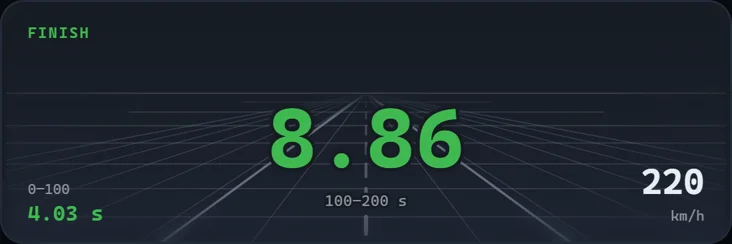
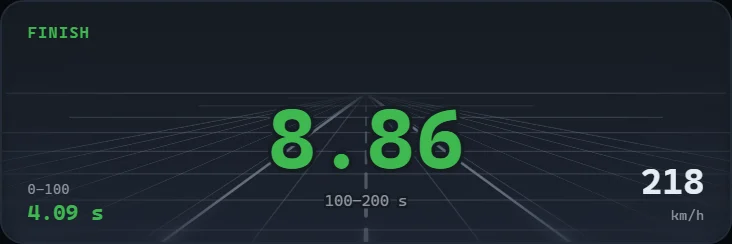
Showcases for the cell chart and the acceleration timer; timer works with every adapter
- New "Battery cells" section: the live cell-voltage chart (healthy pack) full width, three notes
  (min / max, balance check at rest, chemistry), and a dead-cell chart; wide charts scroll sideways on
  phones, the dead-cell one opens centred on the red column.
- Acceleration timer section rewritten as a showcase: full screen sideways and upright, "works with every
  adapter" (Acceleration mode on basic ELM327), full screen in one tap, run history.
  The old "when does the timer appear" rules and the 0–100 rows in the adapter cards are gone.
- Nav gets Cells and 0–100 (links collapse below 960 px); gallery gets the full-screen timer.
- New captures from the app demo (EN / UK); unused STN-highlight and running crops removed.

diff --git a/index.html b/index.html
@@ -102,7 +102,7 @@
     padding: 5px 11px; border: 0; border-radius: 999px; background: transparent; color: var(--muted); cursor: pointer;
   }
   .lang button[aria-pressed='true'] { background: var(--text); color: var(--bg); }
-  @media (max-width: 760px) { .links { display: none; } .lang { margin-left: auto; } }
+  @media (max-width: 960px) { .links { display: none; } .lang { margin-left: auto; } }
 
   /* ---------- Герой ---------- */
   .hero { padding: 72px 0 40px; }
@@ -286,31 +286,53 @@
   @media (max-width: 760px) { .more { grid-template-columns: 1fr; } }
   .legend { display: flex; flex-wrap: wrap; gap: 6px 18px; font-size: 13px; color: var(--dim); margin: -14px 0 22px; }
 
-  /* Таймер розгону */
-  .accel { display: grid; grid-template-columns: 1.1fr 1fr; gap: 16px; }
-  .accel .card { padding: 26px; }
-  .accel h3 { margin: 0 0 10px; font-size: 19px; }
-  .accel p { margin: 0 0 12px; color: var(--muted); }
-  .accel ul { margin: 0; padding: 0; list-style: none; display: grid; gap: 10px; }
-  .accel li { display: flex; gap: 10px; color: var(--muted); }
-  .accel li b { color: var(--text); }
-  .accel .yes::before, .accel .nope::before { flex: none; font-weight: 800; }
-  .accel .yes::before { content: '✓'; color: var(--green); }
-  .accel .nope::before { content: '✕'; color: var(--red); }
-  .accel .sub-h { margin-top: 22px; }
-  /* Знімки віджета (у демо з реального компонента апки) */
-  .shot { margin: 0 0 16px; }
-  .shot:last-child { margin-bottom: 0; }
-  .shot img { display: block; width: 100%; height: auto; border-radius: 14px; border: 1px solid var(--line); }
-  /* Де живе віджет: телефон з підсвіченими віджетом і чипом STN + крупні кадри станів */
-  .accel-media { display: grid; grid-template-columns: 210px 1fr; gap: 20px; align-items: start; }
-  .where { margin: 0; }
-  .where .phone { position: static; transform: none; width: 100%; opacity: 1; box-shadow: 0 18px 40px rgba(0, 0, 0, 0.45); }
-  .where figcaption { margin-top: 10px; font-size: 13.5px; color: var(--muted); }
-  @media (max-width: 1040px) and (min-width: 861px) { .accel-media { grid-template-columns: 1fr; } .where { max-width: 230px; } }
-  @media (max-width: 520px) { .accel-media { grid-template-columns: 1fr; } .where { max-width: 240px; margin: 0 auto; } }
-  .shot figcaption { margin-top: 8px; font-size: 13.5px; color: var(--muted); }
-  @media (max-width: 860px) { .accel { grid-template-columns: 1fr; } }
+  /* Вітрини (комірки, розгін): великі кадри з реального компонента апки + картки-пояснення */
+  .points { display: grid; gap: 14px; }
+  .point { padding: 22px; }
+  .point h3 { margin: 0 0 6px; font-size: 17px; letter-spacing: -0.01em; }
+  .point p { margin: 0; color: var(--muted); font-size: 14.5px; }
+  .point img { display: block; width: 100%; height: auto; margin-top: 16px; border-radius: 12px; border: 1px solid var(--line); }
+  figure.showcase { margin: 0; }
+  .showcase figcaption { margin-top: 12px; font-size: 14px; color: var(--muted); }
+  .showcase figcaption b { color: var(--text); }
+
+  /* Комірки: графік широкий (≈4.4 : 1) — на телефоні гортається вбік, щоб цифри лишались читабельними */
+  .chart-shot { position: relative; }
+  .chart-shot::before {
+    content: ''; position: absolute; inset: 10% 15% -6%; z-index: -1;
+    background: radial-gradient(closest-side, rgba(88, 166, 255, 0.22), transparent); filter: blur(30px);
+  }
+  .chart-scroll { overflow-x: auto; border-radius: 14px; box-shadow: var(--shadow); scrollbar-width: thin; }
+  .chart-scroll img { display: block; width: 100%; height: auto; }
+  .swipe-hint { display: none; }
+  @media (max-width: 760px) {
+    .chart-scroll img { width: 760px; max-width: none; }
+    .swipe-hint { display: inline; }
+  }
+  .cells-points { grid-template-columns: repeat(3, 1fr); margin-top: 26px; }
+  @media (max-width: 860px) { .cells-points { grid-template-columns: 1fr; } }
+  .dead-shot { margin-top: 16px; padding: 18px; }
+  .dead-shot .chart-scroll { box-shadow: none; border: 1px solid var(--line); border-radius: 12px; }
+
+  /* Розгін: телефон боком (повний екран) + телефон стоячи */
+  .accel-show { position: relative; display: grid; grid-template-columns: 1fr 236px; gap: 32px; align-items: center; }
+  .accel-show::before {
+    content: ''; position: absolute; inset: 0 25% 10% 10%; z-index: -1;
+    background: radial-gradient(closest-side, rgba(229, 120, 32, 0.22), transparent); filter: blur(40px);
+  }
+  .phone-wide {
+    padding: 7px; border-radius: 30px; background: linear-gradient(160deg, #2a313c, #0c1016 40%);
+    border: 1px solid var(--line-strong); box-shadow: var(--shadow);
+  }
+  .phone-wide img { display: block; width: 100%; height: auto; border-radius: 24px; }
+  .upright .phone { position: static; transform: none; width: 100%; opacity: 1; box-shadow: var(--shadow); }
+  .accel-points { grid-template-columns: repeat(3, 1fr); margin-top: 28px; align-items: start; }
+  @media (max-width: 980px) { .accel-points { grid-template-columns: 1fr 1fr; } }
+  @media (max-width: 760px) {
+    .accel-show { grid-template-columns: 1fr; gap: 26px; }
+    figure.upright { max-width: 220px; margin: 0 auto; text-align: center; } /* figure.showcase { margin: 0 } інакше перебиває */
+    .accel-points { grid-template-columns: 1fr; }
+  }
 
   /* Кабелі */
   .cables { grid-template-columns: repeat(3, 1fr); }
@@ -398,6 +420,8 @@
     </a>
     <nav class="links">
       <a href="#features"><span class="en">Features</span><span class="uk">Можливості</span></a>
+      <a href="#cells"><span class="en">Cells</span><span class="uk">Комірки</span></a>
+      <a href="#accel">0–100</a>
       <a href="#video"><span class="en">Video</span><span class="uk">Відео</span></a>
       <a href="#editions"><span class="en">Editions</span><span class="uk">Версії</span></a>
       <a href="#adapters"><span class="en">Adapters</span><span class="uk">Адаптери</span></a>
@@ -531,11 +555,104 @@
           <figure><div class="phone"><img src="assets/img/shots/cells.webp" alt="" width="540" height="960" loading="lazy" draggable="false"></div><figcaption><span class="en">Cells</span><span class="uk">Комірки</span></figcaption></figure>
           <figure><div class="phone"><img src="assets/img/shots/pack.webp" alt="" width="540" height="960" loading="lazy" draggable="false"></div><figcaption><span class="en">Pack</span><span class="uk">Пак</span></figcaption></figure>
           <figure><div class="phone"><img src="assets/img/shots/drive-accel.webp" alt="" width="540" height="960" loading="lazy" draggable="false"></div><figcaption><span class="en">Drive</span><span class="uk">Привід</span></figcaption></figure>
+          <figure><div class="phone"><img class="en" src="assets/img/accel/en-full-portrait.webp" alt="" width="540" height="960" loading="lazy" draggable="false"><img class="uk" src="assets/img/accel/uk-full-portrait.webp" alt="" width="540" height="960" loading="lazy" draggable="false"></div><figcaption><span class="en">0–100 full screen</span><span class="uk">Розгін на весь екран</span></figcaption></figure>
           <figure><div class="phone"><img src="assets/img/shots/hv.webp" alt="" width="540" height="960" loading="lazy" draggable="false"></div><figcaption>HV</figcaption></figure>
           <figure><div class="phone"><img src="assets/img/shots/overview.webp" alt="" width="540" height="960" loading="lazy" draggable="false"></div><figcaption><span class="en">Decoded values</span><span class="uk">Декодовані значення</span></figcaption></figure>
         </div>
         <button type="button" class="gal-btn prev" aria-label="Previous screenshots"><svg viewBox="0 0 24 24" fill="none" stroke="currentColor" stroke-width="2.4" stroke-linecap="round" stroke-linejoin="round" aria-hidden="true"><path d="M14.5 6 8.5 12l6 6"/></svg></button>
         <button type="button" class="gal-btn next" aria-label="Next screenshots"><svg viewBox="0 0 24 24" fill="none" stroke="currentColor" stroke-width="2.4" stroke-linecap="round" stroke-linejoin="round" aria-hidden="true"><path d="m9.5 6 6 6-6 6"/></svg></button>
+      </div>
+    </div>
+  </section>
+
+  <!-- ======== Комірки (вітрина) ======== -->
+  <section class="block" id="cells">
+    <div class="wrap">
+      <div class="kicker"><span class="en">Battery cells</span><span class="uk">Комірки батареї</span></div>
+      <h2><span class="en">Every cell of your pack on one chart</span><span class="uk">Кожна комірка батареї — на одному графіку</span></h2>
+      <p class="lead">
+        <span class="en">The battery management system reports the voltage of every cell group, and T-CAN draws all of them live: 96 bars on a typical Model 3 / Y pack. The scale follows the actual spread, so even a few millivolts of difference are visible.</span>
+        <span class="uk">Система керування батареєю передає напругу кожної групи комірок, і T-CAN малює їх усі наживо: 96 стовпців на типовій батареї Model 3 / Y. Шкала підлаштовується під реальний розкид, тож видно навіть кілька мілівольт різниці.</span>
+      </p>
+      <figure class="showcase chart-shot reveal">
+        <div class="chart-scroll">
+          <img class="en" src="assets/img/cells/en-chart.webp" alt="Cell voltage chart: 96 cells, average 4.066 V, two weaker cells stand out" width="1872" height="428" loading="lazy">
+          <img class="uk" src="assets/img/cells/uk-chart.webp" alt="Графік напруги комірок: 96 комірок, середня 4.066 В, дві слабші комірки видно одразу" width="1872" height="428" loading="lazy">
+        </div>
+        <figcaption>
+          <span class="en">The weaker a cell, the brighter its bar; the dashed line is the pack average. <span class="swipe-hint">Swipe to see all cells.</span></span>
+          <span class="uk">Що слабша комірка, то яскравіший її стовпець; пунктир — середня по батареї. <span class="swipe-hint">Гортайте вбік, щоб побачити всі комірки.</span></span>
+        </figcaption>
+      </figure>
+      <div class="points cells-points">
+        <article class="card point reveal">
+          <h3><span class="en">Min, max and imbalance</span><span class="uk">Мін, макс і розбаланс</span></h3>
+          <p><span class="en">The lowest and highest cells are named and outlined in the cell grid under the chart.</span><span class="uk">Найнижчу й найвищу комірки названо за номером і обведено в сітці під графіком.</span></p>
+        </article>
+        <article class="card point reveal">
+          <h3><span class="en">Balance check at rest</span><span class="uk">Перевірка балансу в спокої</span></h3>
+          <p><span class="en">The spread turns green, amber or red only when the car is at rest: under load it grows naturally and would raise false alarms.</span><span class="uk">Розкид фарбується в зелений, жовтий чи червоний лише в спокої: під навантаженням він природно зростає й давав би хибні тривоги.</span></p>
+        </article>
+        <article class="card point reveal">
+          <h3><span class="en">Chemistry recognised</span><span class="uk">Хімія розпізнається</span></h3>
+          <p><span class="en">LFP or NCA / NCM is detected from the bus, and the imbalance threshold follows it.</span><span class="uk">LFP чи NCA / NCM визначається з шини, і поріг розбалансу підлаштовується під неї.</span></p>
+        </article>
+      </div>
+      <figure class="card showcase dead-shot reveal">
+        <div class="chart-scroll" data-focus="0.46">
+          <img class="en" src="assets/img/cells/en-chart-dead.webp" alt="Cell voltage chart of an unbalanced pack with one dead cell drawn in red" width="1872" height="428" loading="lazy">
+          <img class="uk" src="assets/img/cells/uk-chart-dead.webp" alt="Графік розбалансованої батареї з мертвою коміркою, позначеною червоним" width="1872" height="428" loading="lazy">
+        </div>
+        <figcaption>
+          <span class="en"><b>A dead cell is impossible to miss.</b> A cell at 0 V, whether the cell group failed or its sense wire broke, is drawn as a red full-height column and counted in the summary.</span>
+          <span class="uk"><b>Мертву комірку неможливо проґавити.</b> Комірка на 0 В, чи то відмовила група, чи обірвався вимірювальний провід, малюється червоним стовпцем на всю висоту й рахується в підсумку.</span>
+        </figcaption>
+      </figure>
+    </div>
+  </section>
+
+  <!-- ======== Таймер розгону (вітрина) ======== -->
+  <section class="block" id="accel">
+    <div class="wrap">
+      <div class="kicker"><span class="en">Acceleration timer</span><span class="uk">Таймер розгону</span></div>
+      <h2><span class="en">0–100 and 100–200, timed from the CAN bus</span><span class="uk">0–100 і 100–200 — заміряно з CAN-шини</span></h2>
+      <p class="lead">
+        <span class="en">Stop, wait for READY and go. The timer starts the moment the car moves, catches each split between speed readings and keeps every run on your phone. In miles it times 0–60 and 60–120 mph.</span>
+        <span class="uk">Зупиніться, дочекайтесь READY і рушайте. Замір починається, щойно авто рушило, кожен відрізок ловиться між показами швидкості, а всі заїзди зберігаються на телефоні. У милях — 0–60 і 60–120 mph.</span>
+      </p>
+      <div class="accel-show">
+        <figure class="showcase reveal">
+          <div class="phone-wide">
+            <img class="en" src="assets/img/accel/en-full-landscape.webp" alt="Acceleration timer in full screen, phone turned sideways, during a run" width="1200" height="540" loading="lazy">
+            <img class="uk" src="assets/img/accel/uk-full-landscape.webp" alt="Таймер розгону на весь екран, телефон боком, під час заміру" width="1200" height="540" loading="lazy">
+          </div>
+          <figcaption><span class="en">Full screen, phone sideways: digits you can read from the mount.</span><span class="uk">На весь екран, телефон боком: цифри видно з тримача.</span></figcaption>
+        </figure>
+        <figure class="showcase upright reveal">
+          <div class="phone">
+            <img class="en" src="assets/img/accel/en-full-portrait.webp" alt="Acceleration timer in full screen, phone upright" width="540" height="960" loading="lazy">
+            <img class="uk" src="assets/img/accel/uk-full-portrait.webp" alt="Таймер розгону на весь екран, телефон стоячи" width="540" height="960" loading="lazy">
+          </div>
+          <figcaption><span class="en">Upright: the road runs down the screen.</span><span class="uk">Стоячи: дорога біжить уздовж екрана.</span></figcaption>
+        </figure>
+      </div>
+      <div class="points accel-points">
+        <article class="card point reveal">
+          <h3><span class="en">Works with every adapter</span><span class="uk">Працює з будь-яким адаптером</span></h3>
+          <p><span class="en">With STN adapters (OBDLink, vLinker), CANserver and S3XY Commander the timer sits above all Drive tiles. On a basic ELM327 pick Acceleration at the top of the Drive dashboard: the app then listens to speed alone, so it arrives without gaps.</span><span class="uk">З адаптерами на STN (OBDLink, vLinker), CANserver і S3XY Commander таймер стоїть над усіма плитками «Приводу». На звичайному ELM327 оберіть «Розгін» угорі дашборда «Привід»: апка тоді слухає лише швидкість, і вона надходить без пропусків.</span></p>
+          <img class="en" src="assets/img/accel/en-elm.webp" alt="Drive dashboard on a basic ELM327: Acceleration selected, timer running" width="736" height="396" loading="lazy">
+          <img class="uk" src="assets/img/accel/uk-elm.webp" alt="Дашборд «Привід» на звичайному ELM327: обрано «Розгін», іде замір" width="736" height="396" loading="lazy">
+        </article>
+        <article class="card point reveal">
+          <h3><span class="en">Full screen in one tap</span><span class="uk">На весь екран одним дотиком</span></h3>
+          <p><span class="en">The corner button opens the timer full screen; turn the phone and the layout follows. The same button or Back returns to the dashboard.</span><span class="uk">Кнопка в куті відкриває таймер на весь екран; поверніть телефон — розкладка підлаштується. Та сама кнопка чи «Назад» повертає до дашборда.</span></p>
+        </article>
+        <article class="card point reveal">
+          <h3><span class="en">Every run is kept</span><span class="uk">Кожен заїзд зберігається</span></h3>
+          <p><span class="en">Tap the timer for the list of runs: date, splits and top speed. Stored only on your phone.</span><span class="uk">Тап по таймеру — список заїздів: дата, відрізки й максимальна швидкість. Зберігається лише на телефоні.</span></p>
+          <img class="en" src="assets/img/accel/en-done.webp" alt="Finish: 0–100 in 4.09 s, 100–200 in 8.86 s" width="732" height="244" loading="lazy">
+          <img class="uk" src="assets/img/accel/uk-done.webp" alt="Фініш: 0–100 за 4.06 с, 100–200 за 8.86 с" width="732" height="244" loading="lazy">
+        </article>
       </div>
     </div>
   </section>
@@ -590,7 +707,7 @@
           <ul>
             <li><span class="en">All dashboards: cells, pack, drive, charging, HV</span><span class="uk">Усі дашборди: комірки, пак, привід, зарядка, HV</span></li>
             <li><span class="en">2,700+ decoded signals, favourites and filters</span><span class="uk">2 700+ декодованих сигналів, обране й фільтри</span></li>
-            <li><span class="en">Acceleration timer with run history</span><span class="uk">Таймер розгону з історією заїздів</span></li>
+            <li><span class="en">Acceleration timer: full screen, run history, any adapter</span><span class="uk">Таймер розгону: на весь екран, історія заїздів, будь-який адаптер</span></li>
             <li><span class="en">CAN logger, raw frames, PNG / PDF snapshots</span><span class="uk">CAN-логер, сирі кадри, знімки PNG / PDF</span></li>
           </ul>
           <div class="badges">
@@ -633,7 +750,6 @@
             <dl class="status">
               <div><dt>Android</dt><dd class="ok">✓ <span class="en">tested</span><span class="uk">перевірено</span></dd></div>
               <div><dt>iPhone</dt><dd class="no">✕ <span class="en">no classic Bluetooth on iPhone</span><span class="uk">на iPhone немає класичного Bluetooth</span></dd></div>
-              <div><dt><span class="en">0–100</span><span class="uk">0–100</span></dt><dd class="no">✕</dd></div>
             </dl>
             <p class="note"><span class="en">The cheapest option: fine for a connection check and basic readings, values update slower.</span><span class="uk">Найдешевший варіант: для перевірки звʼязку й базових показників, значення оновлюються повільніше.</span></p>
           </div>
@@ -646,7 +762,6 @@
             <dl class="status">
               <div><dt>Android</dt><dd class="ok">✓ <span class="en">tested</span><span class="uk">перевірено</span></dd></div>
               <div><dt>iPhone</dt><dd class="ok">✓ <span class="en">tested</span><span class="uk">перевірено</span></dd></div>
-              <div><dt>0–100</dt><dd class="no">✕</dd></div>
             </dl>
             <p class="note"><span class="en">Sold as "for Android and iOS".</span><span class="uk">Продається як «для Android та iOS».</span></p>
           </div>
@@ -659,7 +774,6 @@
             <dl class="status">
               <div><dt>Android</dt><dd class="ok">✓ <span class="en">tested</span><span class="uk">перевірено</span></dd></div>
               <div><dt>iPhone</dt><dd class="ok">✓ <span class="en">tested</span><span class="uk">перевірено</span></dd></div>
-              <div><dt>0–100</dt><dd class="no">✕</dd></div>
             </dl>
             <p class="note"><span class="en">Join the adapter's Wi-Fi first; meanwhile the phone's internet goes over mobile data.</span><span class="uk">Спершу підключіться до Wi-Fi адаптера; інтернет тим часом іде через мобільні дані.</span></p>
           </div>
@@ -672,65 +786,17 @@
             <dl class="status">
               <div><dt>Android</dt><dd class="ok">✓ <span class="en">tested</span><span class="uk">перевірено</span></dd></div>
               <div><dt>iPhone</dt><dd class="ok">✓ <span class="en">tested</span><span class="uk">перевірено</span></dd></div>
-              <div><dt>0–100</dt><dd class="ok">✓ Android</dd></div>
             </dl>
             <p class="note"><span class="en">Filters CAN messages in hardware, so values update noticeably more often.</span><span class="uk">Фільтрує CAN-повідомлення апаратно, тож значення оновлюються помітно частіше.</span></p>
           </div>
         </article>
       </div>
       <ul class="more">
-        <li class="card reveal"><b>OBDLink CX</b> — Bluetooth LE · STN · Android, iPhone · 0–100 <span class="ok">✓</span><br><span class="en">Supported, not tested by us yet.</span><span class="uk">Підтримується, ми ще не перевіряли.</span></li>
-        <li class="card reveal"><b>OBDLink MX+</b> — Bluetooth · STN · 0–100 <span class="ok">✓</span><br><span class="en">Android; on iPhone via MFi, awaiting approval.</span><span class="uk">Android; на iPhone через MFi — чекаємо дозволу.</span></li>
-        <li class="card reveal"><b>Vgate vLinker FS</b> — Bluetooth · MFi · 0–100 <span class="ok">✓</span><br><span class="en">Android; on iPhone via MFi, coming soon.</span><span class="uk">Android; на iPhone через MFi — незабаром.</span></li>
-        <li class="card reveal"><b>CANserver · S3XY Commander</b> — Wi-Fi · Android, iPhone · 0–100 <span class="ok">✓</span><br><span class="en">Supported, not tested by us yet.</span><span class="uk">Підтримуються, ми ще не перевіряли.</span></li>
+        <li class="card reveal"><b>OBDLink CX</b> — Bluetooth LE · STN · Android, iPhone<br><span class="en">Supported, not tested by us yet.</span><span class="uk">Підтримується, ми ще не перевіряли.</span></li>
+        <li class="card reveal"><b>OBDLink MX+</b> — Bluetooth · STN<br><span class="en">Android; on iPhone via MFi, awaiting approval.</span><span class="uk">Android; на iPhone через MFi — чекаємо дозволу.</span></li>
+        <li class="card reveal"><b>Vgate vLinker FS</b> — Bluetooth · MFi<br><span class="en">Android; on iPhone via MFi, coming soon.</span><span class="uk">Android; на iPhone через MFi — незабаром.</span></li>
+        <li class="card reveal"><b>CANserver · S3XY Commander</b> — Wi-Fi · Android, iPhone<br><span class="en">Supported, not tested by us yet.</span><span class="uk">Підтримуються, ми ще не перевіряли.</span></li>
       </ul>
-    </div>
-  </section>
-
-  <!-- ======== Таймер розгону ======== -->
-  <section class="block" id="accel">
-    <div class="wrap">
-      <div class="kicker"><span class="en">Acceleration timer</span><span class="uk">Таймер розгону</span></div>
-      <h2><span class="en">When does the 0–100 timer appear?</span><span class="uk">Коли зʼявляється таймер 0–100?</span></h2>
-      <p class="lead"><span class="en">A widget on the Drive dashboard: it waits at a standstill (READY), starts timing as soon as the car moves and records 0–100 and 100–200 km/h (0–60 and 60–120 mph). Tap it for the history of your runs.</span><span class="uk">Віджет на дашборді «Привід»: чекає на стоянці (READY), починає замір, щойно авто рушило, і фіксує 0–100 та 100–200 км/год (0–60 і 60–120 mph). Тап по ньому — історія ваших заїздів.</span></p>
-      <div class="accel">
-        <div class="card reveal">
-          <h3><span class="en">What it looks like</span><span class="uk">Як це виглядає</span></h3>
-          <div class="accel-media">
-            <figure class="where">
-              <div class="phone">
-                <img class="en" src="assets/img/accel/drive-en.webp" alt="Drive dashboard with the acceleration timer and the STN chip highlighted" width="540" height="960" loading="lazy">
-                <img class="uk" src="assets/img/accel/drive-uk.webp" alt="Дашборд «Привід» з підсвіченими таймером розгону й чипом STN" width="540" height="960" loading="lazy">
-              </div>
-              <figcaption><span class="en">At the top of the Drive dashboard. STN next to the frame rate means the timer is available.</span><span class="uk">Угорі дашборда «Привід». STN поруч із частотою кадрів — таймер доступний.</span></figcaption>
-            </figure>
-            <div>
-              <figure class="shot">
-                <img class="en" src="assets/img/accel/en-running.webp" alt="Acceleration timer during a run" width="732" height="244" loading="lazy">
-                <img class="uk" src="assets/img/accel/uk-running.webp" alt="Таймер розгону під час заміру" width="732" height="244" loading="lazy">
-                <figcaption><span class="en">During a run: current time, 0–100 split, speed and g-force</span><span class="uk">Під час заміру: поточний час, відрізок 0–100, швидкість і перевантаження</span></figcaption>
-              </figure>
-              <figure class="shot">
-                <img class="en" src="assets/img/accel/en-done.webp" alt="Acceleration timer result" width="732" height="244" loading="lazy">
-                <img class="uk" src="assets/img/accel/uk-done.webp" alt="Результат таймера розгону" width="732" height="244" loading="lazy">
-                <figcaption><span class="en">Finish: 0–100 and 100–200 results</span><span class="uk">Фініш: результати 0–100 і 100–200</span></figcaption>
-              </figure>
-            </div>
-          </div>
-        </div>
-        <div class="card reveal">
-          <h3><span class="en">It needs a continuous speed signal</span><span class="uk">Потрібна безперервна швидкість</span></h3>
-          <p><span class="en">The timer appears only when speed arrives continuously. Same rule on Android and iPhone.</span><span class="uk">Таймер зʼявляється лише тоді, коли швидкість надходить безперервно. Правило однакове для Android і iPhone.</span></p>
-          <ul>
-            <li class="yes"><span><b><span class="en">STN or compatible adapters</span><span class="uk">Адаптери на STN чи сумісному чипі</span></b> <span class="en">(OBDLink, vLinker) — hardware filtering.</span><span class="uk">(OBDLink, vLinker) — апаратна фільтрація.</span></span></li>
-            <li class="yes"><span><b>CANserver · S3XY Commander</b> <span class="en">— stream the whole bus over Wi-Fi.</span><span class="uk">— передають усю шину через Wi-Fi.</span></span></li>
-            <li class="nope"><span><b><span class="en">Basic ELM327 clones</span><span class="uk">Звичайні клони ELM327</span></b> <span class="en">— speed only ~3 times a second, too coarse to time a run.</span><span class="uk">— швидкість лише ~3 рази на секунду, для заміру замало.</span></span></li>
-          </ul>
-          <h3 class="sub-h"><span class="en">How to check your adapter</span><span class="uk">Як перевірити свій адаптер</span></h3>
-          <p><span class="en">After connecting, look for <b>STN</b> in the "Adapter connected" notification or next to the adapter in the adapter window.</span><span class="uk">Після підключення шукайте <b>STN</b> у сповіщенні «Адаптер підключено» або біля адаптера у вікні адаптера.</span></p>
-          <p class="note"><span class="en">iPhone has no classic Bluetooth: use Bluetooth LE, Wi-Fi, CANserver / S3XY or MFi adapters.</span><span class="uk">На iPhone немає класичного Bluetooth: підходять адаптери Bluetooth LE, Wi-Fi, CANserver / S3XY або MFi.</span></p>
-        </div>
-      </div>
     </div>
   </section>
 
@@ -848,6 +914,16 @@
       entries.forEach(function (e) { if (e.isIntersecting) { e.target.classList.add('in'); io.unobserve(e.target); } });
     }, { rootMargin: '0px 0px -8% 0px' });
     items.forEach(function (el) { io.observe(el); });
+  })();
+</script>
+<script>
+  // Широкий графік на телефоні гортається вбік; data-focus — частка ширини, яку одразу показати по центру
+  // (мертва комірка), інакше вона ховалась би за правим краєм.
+  (function () {
+    document.querySelectorAll('.chart-scroll[data-focus]').forEach(function (el) {
+      var max = el.scrollWidth - el.clientWidth;
+      if (max > 2) el.scrollLeft = Math.min(max, Math.max(0, el.scrollWidth * parseFloat(el.getAttribute('data-focus')) - el.clientWidth / 2));
+    });
   })();
 </script>
 <script>
